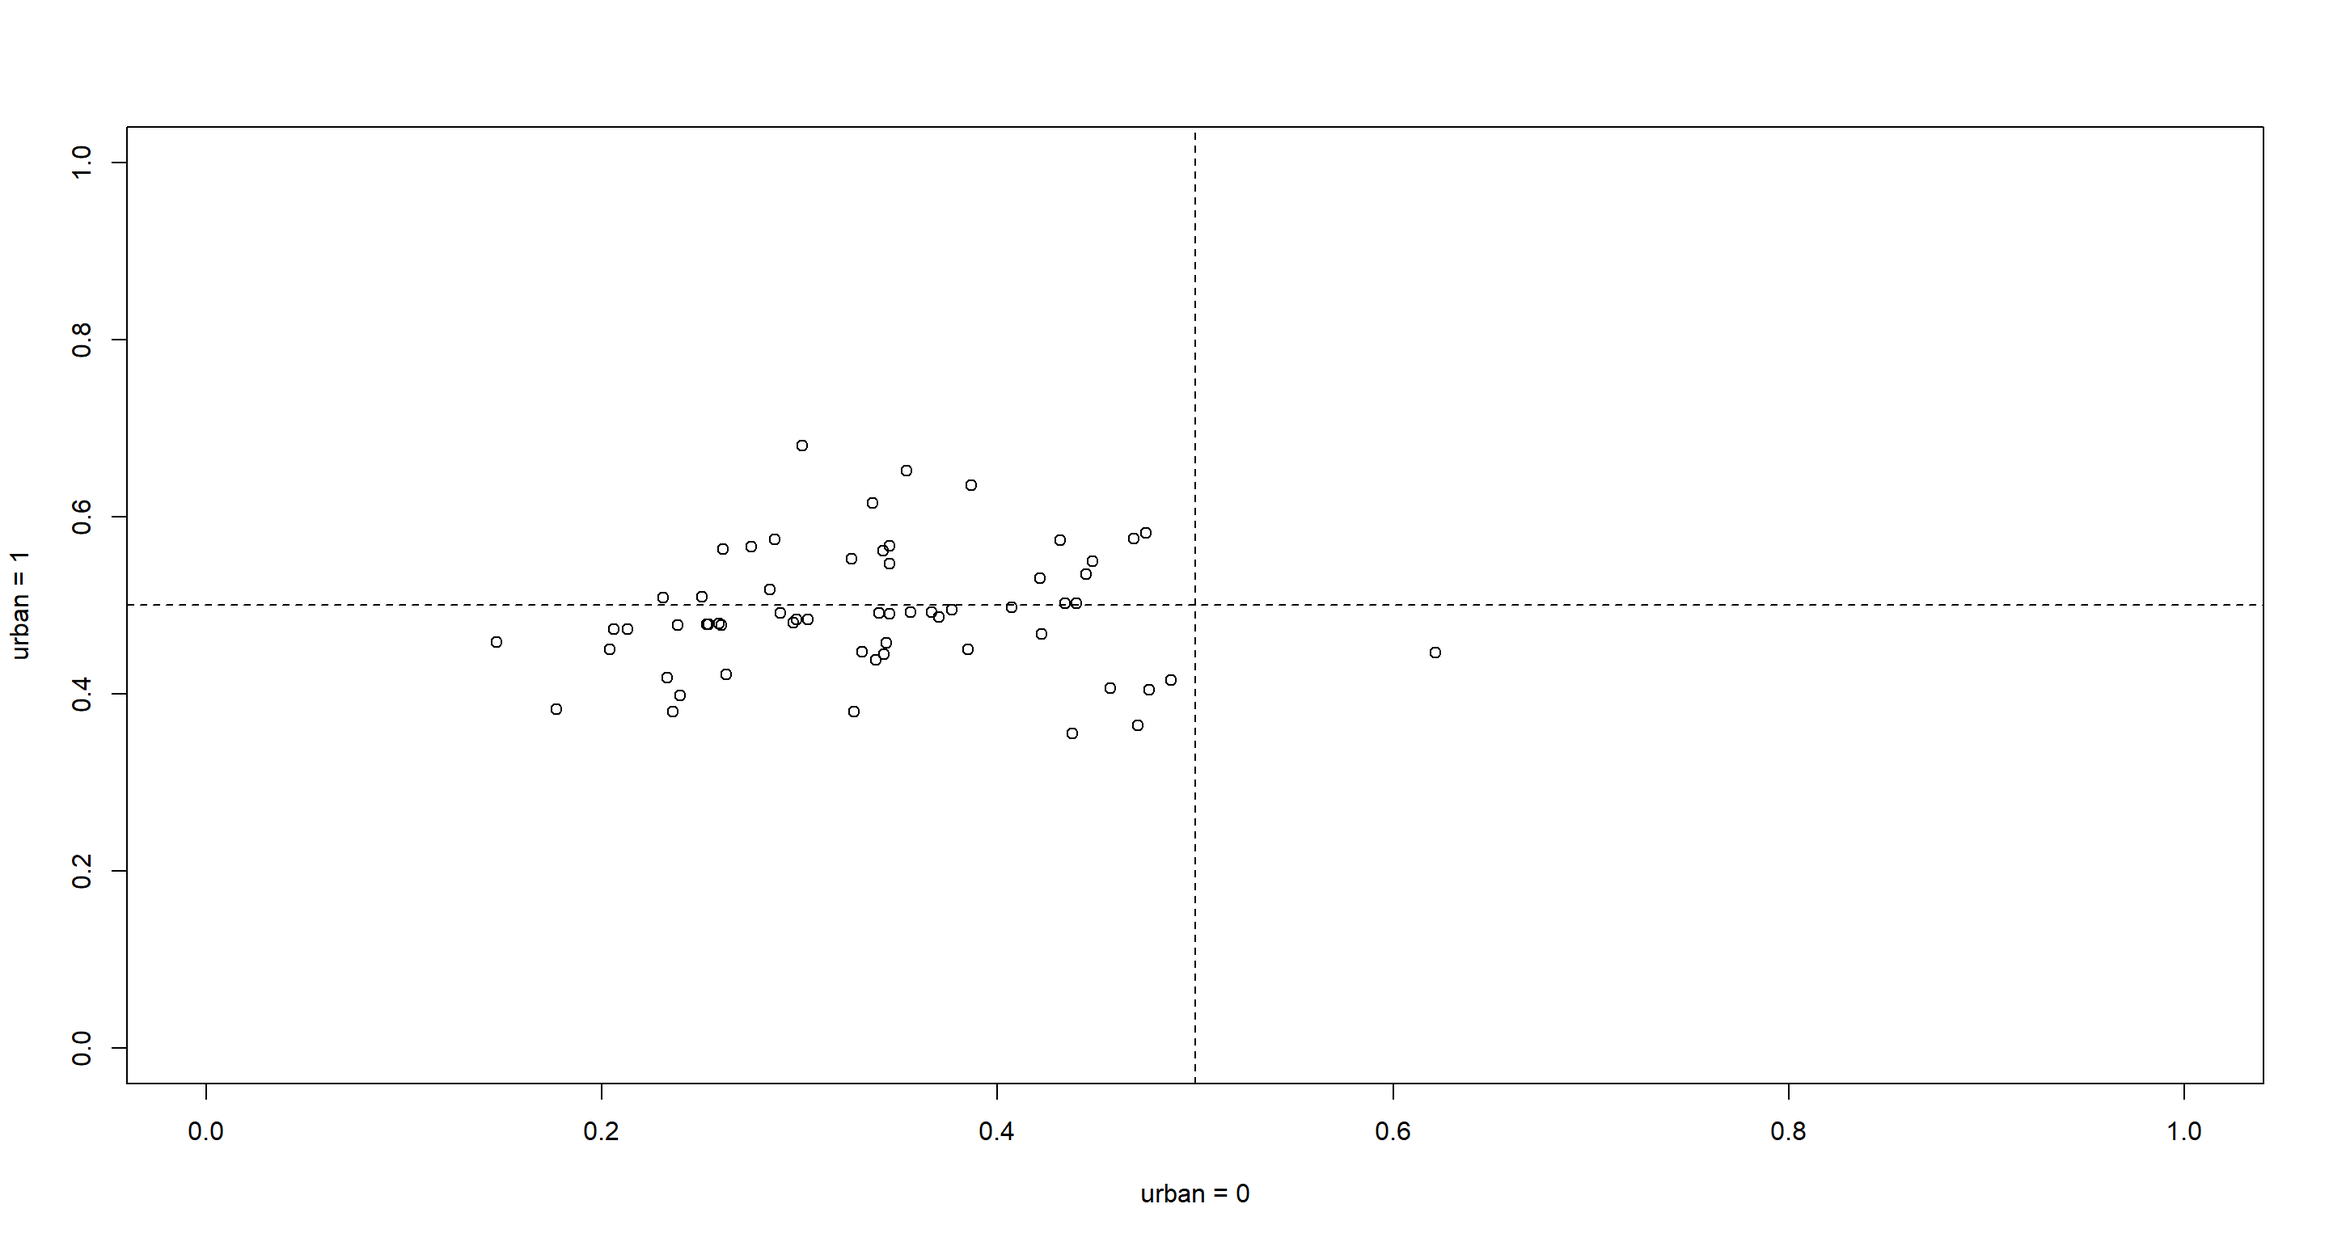
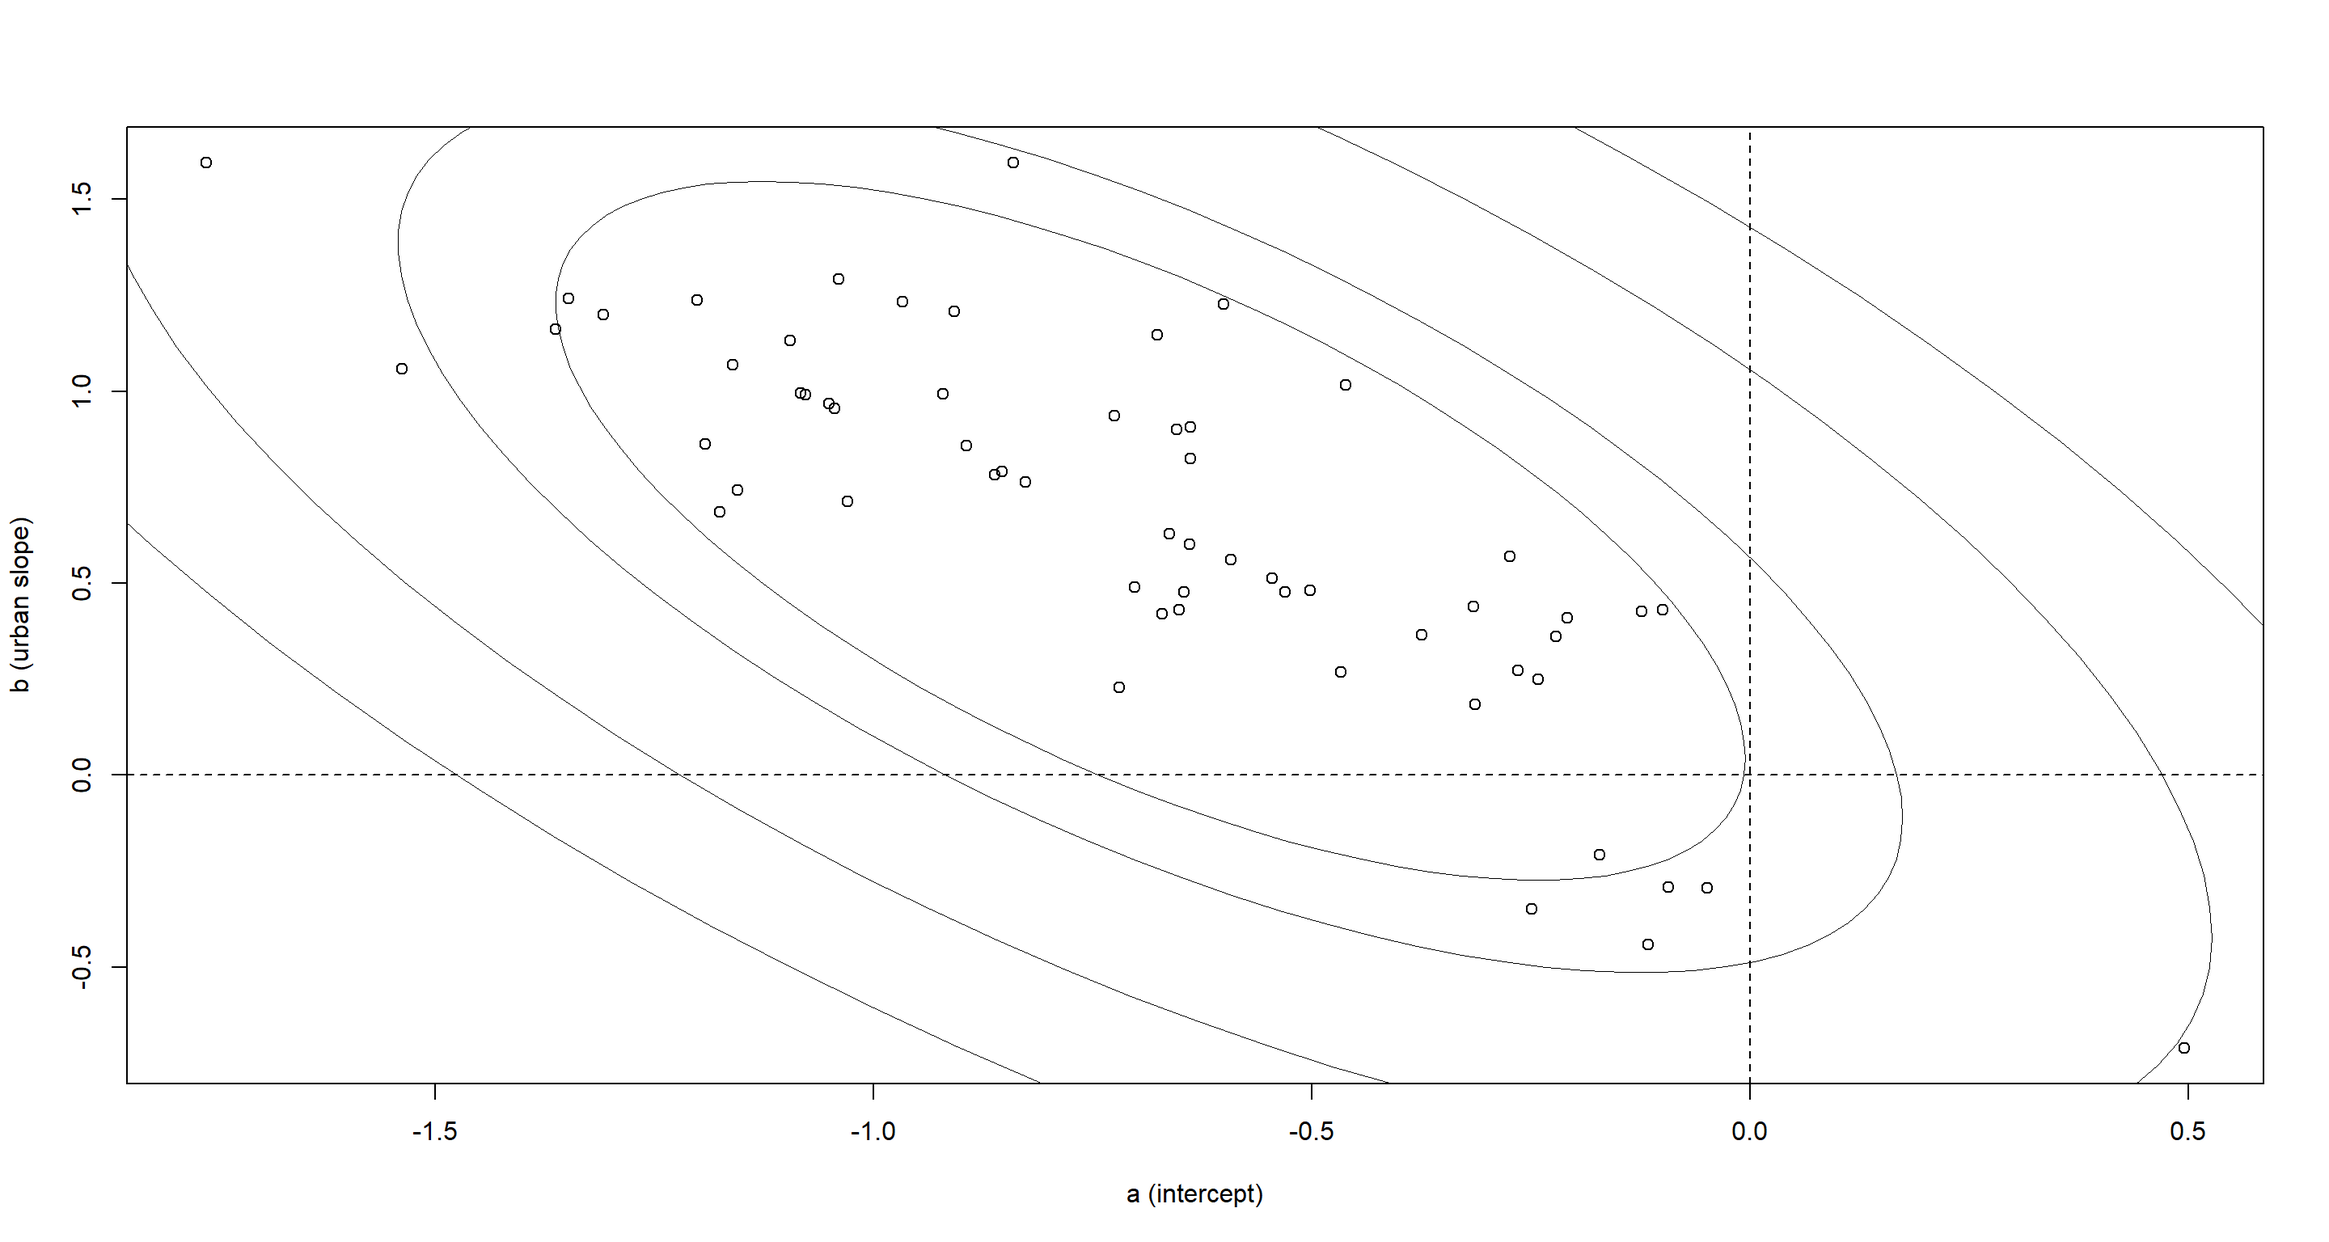
Fix for rethinking chapter 14

diff --git a/content/post/rethinking/2021-04-15-statistical-rethinking-chapter-14/index.en.html b/content/post/rethinking/2021-04-15-statistical-rethinking-chapter-14/index.en.html
@@ -55,6 +55,7 @@ the solutions provided to instructors by Richard McElreath himself.</p>
 <pre class="r"><code>library(rethinking)
 library(rstan)
 library(MASS)
+library(ellipse)
 library(ape)
 library(ggplot2)
 library(tidybayes)</code></pre>
@@ -374,10 +375,10 @@ precis(m_M3NonCent, 3)</code></pre>
 <p>So what about running time?</p>
 <pre class="r"><code># Centred
 End_C - Begin_C</code></pre>
-<pre><code>## Time difference of 30.1616 secs</code></pre>
+<pre><code>## Time difference of 31.60123 secs</code></pre>
 <pre class="r"><code># Non-Centred
 End_NC - Begin_NC</code></pre>
-<pre><code>## Time difference of 25.81604 secs</code></pre>
+<pre><code>## Time difference of 27.44722 secs</code></pre>
 <p>Ok. The non-centred model ran slightly faster.</p>
 </div>
 <div id="practice-m4" class="section level2">
@@ -546,15 +547,16 @@ m_M5GP &lt;- ulam(
 <h2>Practice H1</h2>
 <p><strong>Question:</strong> Let’s revisit the Bangladesh fertility data, <code>data(bangladesh)</code>, from the practice problems for Chapter 13. Fit a model with both varying intercepts by <code>district_id</code> and varying slopes of urban by <code>district_id</code>. You are still predicting <code>use.contraception</code>.</p>
 <p>Inspect the correlation between the intercepts and slopes. Can you interpret this correlation, in terms of what it tells you about the pattern of contraceptive use in the sample? It might help to plot the mean (or median) varying effect estimates for both the intercepts and slopes, by district. Then you can visualize the correlation and maybe more easily think through what it means to have a particular correlation. Plotting predicted proportion of women using contraception, with urban women on one axis and rural on the other, might also help.</p>
-<p><strong>Answer:</strong></p>
+<p><strong>Answer:</strong> Once more, I start by loading the data and preparing it as was done in a previous chapter:</p>
 <pre class="r"><code>data(bangladesh)
 d &lt;- bangladesh
 dat_list &lt;- list(
   C = d$use.contraception,
   did = as.integer(as.factor(d$district)),
   urban = d$urban
-)
-m14H1.1 &lt;- ulam(
+)</code></pre>
+<p>Now I can run my model:</p>
+<pre class="r"><code>m_H1 &lt;- ulam(
   alist(
     C ~ bernoulli(p),
     logit(p) &lt;- a[did] + b[did] * urban,
@@ -566,11 +568,14 @@ m14H1.1 &lt;- ulam(
   ),
   data = dat_list, chains = 4, cores = 4, iter = 4000
 )</code></pre>
-<pre class="r"><code>precis(m14H1.1)</code></pre>
+<p>And now look at the posterior estimates of average effects:</p>
+<pre class="r"><code>precis(m_H1)</code></pre>
 <pre><code>##            mean        sd       5.5%      94.5%    n_eff    Rhat4
 ## abar -0.6842219 0.1003302 -0.8475050 -0.5301731 6158.562 1.000395
 ## bbar  0.6369826 0.1590421  0.3866908  0.8900233 4474.285 1.000145</code></pre>
-<pre class="r"><code>precis(m14H1.1, depth = 3, pars = c(&quot;Rho&quot;, &quot;Sigma&quot;))</code></pre>
+<p>Unsurprisingly, I find a positive effect for <code>bbar</code> which indicates that contraception is used more frequently in urban areas.</p>
+<p>Looking deeper into the posterior estimates:</p>
+<pre class="r"><code>precis(m_H1, depth = 3, pars = c(&quot;Rho&quot;, &quot;Sigma&quot;))</code></pre>
 <pre><code>##                mean           sd       5.5%      94.5%     n_eff     Rhat4
 ## Rho[1,1]  1.0000000 0.000000e+00  1.0000000  1.0000000       NaN       NaN
 ## Rho[1,2] -0.6512997 1.696069e-01 -0.8680436 -0.3443487 1431.4457 1.0003693
@@ -578,13 +583,14 @@ m14H1.1 &lt;- ulam(
 ## Rho[2,2]  1.0000000 5.972661e-17  1.0000000  1.0000000 7485.2487 0.9994999
 ## Sigma[1]  0.5762512 9.710360e-02  0.4308600  0.7404430 1990.0617 1.0021542
 ## Sigma[2]  0.7731623 1.991282e-01  0.4617857  1.0991674  967.7497 1.0034399</code></pre>
-<pre class="r"><code>post &lt;- extract.samples(m14H1.1)
+<p>shows a negative correlation between the intercepts and slopes (<code>Rho[1,2]</code> or <code>Rho[2,1]</code>).</p>
+<p>Let’s plot this relationship between the varying effects to get a better understanding of what is happening:</p>
+<pre class="r"><code>post &lt;- extract.samples(m_H1)
 a &lt;- apply(post$a, 2, mean)
 b &lt;- apply(post$b, 2, mean)
 plot(a, b, xlab = &quot;a (intercept)&quot;, ylab = &quot;b (urban slope)&quot;)
 abline(h = 0, lty = 2)
 abline(v = 0, lty = 2)
-library(ellipse)
 R &lt;- apply(post$Rho, 2:3, mean)
 s &lt;- apply(post$Sigma, 2, mean)
 S &lt;- diag(s) %*% R %*% diag(s)
@@ -593,45 +599,27 @@ for (l in ll) {
   el &lt;- ellipse(S, centre = c(mean(post$abar), mean(post$bbar)), level = l)
   lines(el, col = &quot;black&quot;, lwd = 0.5)
 }</code></pre>
-<p><img src="{{< blogdown/postref >}}index.en_files/figure-html/unnamed-chunk-26-1.png" width="1440" /></p>
+<p><img src="{{< blogdown/postref >}}index.en_files/figure-html/unnamed-chunk-27-1.png" width="1440" /></p>
+<p>So districts with higher use of contraception outside of urban areas come with smaller slopes. Basically, what this means is that districts which boast a high use of contraception outside of urban areas do not have a marked shift in use of contraceptives when moving to urban areas.</p>
+<p>We can also show this in probability scale by applying inverse logit transformation to our estimates:</p>
 <pre class="r"><code>u0 &lt;- inv_logit(a)
 u1 &lt;- inv_logit(a + b)
 plot(u0, u1, xlim = c(0, 1), ylim = c(0, 1), xlab = &quot;urban = 0&quot;, ylab = &quot;urban = 1&quot;)
 abline(h = 0.5, lty = 2)
 abline(v = 0.5, lty = 2)</code></pre>
-<p><img src="{{< blogdown/postref >}}index.en_files/figure-html/unnamed-chunk-27-1.png" width="1440" /></p>
-<pre class="r"><code># version with matrix instead of slopes
-dat_list$uid &lt;- dat_list$urban + 1L
-m14H1.2 &lt;- ulam(
-  alist(
-    C ~ bernoulli(p),
-    logit(p) &lt;- a[did, uid],
-    vector[2]:a[did] ~ multi_normal(c(abar, bbar), Rho, Sigma),
-    abar ~ normal(0, 1),
-    bbar ~ normal(0, 1),
-    Rho ~ lkj_corr(2),
-    Sigma ~ exponential(1)
-  ),
-  data = dat_list, chains = 4, cores = 4, iter = 4000
-)
-precis(m14H1.2, depth = 3, pars = &quot;Rho&quot;)</code></pre>
-<pre><code>##               mean          sd       5.5%     94.5%    n_eff     Rhat4
-## Rho[1,1]  1.000000 0.00000e+00  1.0000000 1.0000000      NaN       NaN
-## Rho[1,2] -0.099816 2.83942e-01 -0.5358482 0.3780365 1778.076 1.0013818
-## Rho[2,1] -0.099816 2.83942e-01 -0.5358482 0.3780365 1778.076 1.0013818
-## Rho[2,2]  1.000000 9.14476e-17  1.0000000 1.0000000 7621.047 0.9994999</code></pre>
+<p><img src="{{< blogdown/postref >}}index.en_files/figure-html/unnamed-chunk-28-1.png" width="1440" /></p>
 </div>
 <div id="practice-h2" class="section level2">
 <h2>Practice H2</h2>
 <p><strong>Question:</strong> Varying effects models are useful for modelling time series, as well as spatial clustering. In a time series, the observations cluster by entities that have continuity through time, such as individuals. Since observations within individuals are likely highly correlated, the multilevel structure can help quite a lot. You’ll use the data in <code>data(Oxboys)</code>, which is 234 height measurements on 26 boys from an Oxford Boys Club (I think these were like youth athletic leagues?), at 9 different ages (centred and standardized) per boy.</p>
 <p>You’ll be interested in predicting <code>height</code>, using <code>age</code>, clustered by <code>Subject</code> (individual boy). Fit a model with varying intercepts and slopes (on <code>age</code>), clustered by <code>Subject</code>. Present and interpret the parameter estimates. Which varying effect contributes more variation to the heights, the intercept or the slope?</p>
-<p><strong>Answer:</strong></p>
+<p><strong>Answer:</strong> I start with loading the data, standardising the age data, and making the subject IDs into an index:</p>
 <pre class="r"><code>data(Oxboys)
 d &lt;- Oxboys
 d$A &lt;- standardize(d$age)
-d$id &lt;- coerce_index(d$Subject)
-
-m14H4.1 &lt;- ulam(
+d$id &lt;- coerce_index(d$Subject)</code></pre>
+<p>Armed with my data, I can now turn to modelling:</p>
+<pre class="r"><code>m_H2 &lt;- ulam(
   alist(
     height ~ dnorm(mu, sigma),
     mu &lt;- a_bar + a[id] + (b_bar + b[id]) * A,
@@ -643,37 +631,42 @@ m14H4.1 &lt;- ulam(
     sigma ~ dexp(1)
   ),
   data = d, chains = 4, cores = 4, iter = 4000
-)
-
-## R code 14.32
-precis(m14H4.1, depth = 2, pars = c(&quot;a_bar&quot;, &quot;b_bar&quot;, &quot;sigma_id&quot;))</code></pre>
-<pre><code>##                   mean        sd       5.5%      94.5%     n_eff    Rhat4
-## a_bar       149.553864 1.3599070 147.392988 151.730080  261.2183 1.017370
-## b_bar         4.233350 0.2065606   3.908525   4.576870  442.0682 1.009450
-## sigma_id[1]   7.330378 0.8850019   6.075158   8.865113 5532.0068 1.000994
-## sigma_id[2]   1.062759 0.1487670   0.851210   1.320576 5813.4313 1.001454</code></pre>
-<pre class="r"><code>## R code 14.33
-plot(height ~ age, type = &quot;n&quot;, data = d)
+)</code></pre>
+<p>The model has compiled and I am interested in the output it produced concerning average effects and variation:</p>
+<pre class="r"><code>precis(m_H2, depth = 2, pars = c(&quot;a_bar&quot;, &quot;b_bar&quot;, &quot;sigma_id&quot;))</code></pre>
+<pre><code>##                   mean        sd        5.5%      94.5%     n_eff    Rhat4
+## a_bar       149.523993 1.3844230 147.2887666 151.690432  293.0144 1.011856
+## b_bar         4.230315 0.2073667   3.8999943   4.554123  414.4092 1.003962
+## sigma_id[1]   7.331832 0.8789976   6.0675622   8.840290 4173.7730 1.001038
+## sigma_id[2]   1.065676 0.1525730   0.8508899   1.336301 4141.6398 1.000750</code></pre>
+<p>Since age is standardised, <code>a_bar</code> represent the average height at average age in the data set. The average slope <code>b_bar</code> represents change in height for a one-unit change in standardised age.</p>
+<p>I don’t like interpreting standardised data coefficients like that. Let’s rather plot it:</p>
+<pre class="r"><code>plot(height ~ age, type = &quot;n&quot;, data = d)
 for (i in 1:26) {
   h &lt;- d$height[d$Subject == i]
   a &lt;- d$age[d$Subject == i]
   lines(a, h, col = col.alpha(&quot;slateblue&quot;, 0.5), lwd = 2)
 }</code></pre>
-<p><img src="{{< blogdown/postref >}}index.en_files/figure-html/unnamed-chunk-29-1.png" width="1440" /></p>
+<p><img src="{{< blogdown/postref >}}index.en_files/figure-html/unnamed-chunk-32-1.png" width="1440" /></p>
+<p>Now the the task at hand. Which effect contributes more to the overall heights of our individuals? Given the plot above, I’d argue that it is the varying intercepts which provide us with most of the variation in heights. However, this is very much down to the data and should not be generalised beyond this data set. It might completely fall apart if we had longer time-series of data values.</p>
 </div>
 <div id="practice-h3" class="section level2">
 <h2>Practice H3</h2>
 <p><strong>Question:</strong> Now consider the correlation between the varying intercepts and slopes. Can you explain its value? How would this estimated correlation influence your predictions about a new sample of boys?</p>
-<p><strong>Answer:</strong></p>
-<pre class="r"><code>precis(m14H4.1, depth = 3, pars = &quot;Rho_id&quot;)</code></pre>
+<p><strong>Answer:</strong> For this, we look at the correlation matrix <code>Rho_id</code>:</p>
+<pre class="r"><code>precis(m_H2, depth = 3, pars = &quot;Rho_id&quot;)</code></pre>
 <pre><code>##                  mean           sd      5.5%     94.5%    n_eff     Rhat4
 ## Rho_id[1,1] 1.0000000 0.000000e+00 1.0000000 1.0000000      NaN       NaN
-## Rho_id[1,2] 0.5306803 1.301624e-01 0.3046068 0.7146637 5306.552 1.0005286
-## Rho_id[2,1] 0.5306803 1.301624e-01 0.3046068 0.7146637 5306.552 1.0005286
-## Rho_id[2,2] 1.0000000 7.816530e-17 1.0000000 1.0000000 8032.358 0.9994999</code></pre>
-<pre class="r"><code>rho &lt;- extract.samples(m14H4.1)$Rho_id[, 1, 2]
-dens(rho, xlab = &quot;rho&quot;, xlim = c(-1, 1))</code></pre>
-<p><img src="{{< blogdown/postref >}}index.en_files/figure-html/unnamed-chunk-31-1.png" width="1440" /></p>
+## Rho_id[1,2] 0.5307351 1.283373e-01 0.3046972 0.7170573 4627.842 1.0007918
+## Rho_id[2,1] 0.5307351 1.283373e-01 0.3046972 0.7170573 4627.842 1.0007918
+## Rho_id[2,2] 1.0000000 7.886203e-17 1.0000000 1.0000000 7829.277 0.9994999</code></pre>
+<p>So there is a positive correlation. Let’s visualise that:</p>
+<pre class="r"><code>ggplot() +
+  stat_halfeye(aes(x = extract.samples(m_H2)$Rho_id[, 1, 2])) +
+  theme_bw() +
+  labs(x = &quot;Rho&quot;)</code></pre>
+<p><img src="{{< blogdown/postref >}}index.en_files/figure-html/unnamed-chunk-34-1.png" width="1440" /></p>
+<p>The positive correlation implies that larger intercepts are associated with steeper slopes. What this means is that taller boys grow faster.</p>
 </div>
 <div id="practice-h4" class="section level2">
 <h2>Practice H4</h2>
@@ -682,33 +675,35 @@ dens(rho, xlab = &quot;rho&quot;, xlim = c(-1, 1))</code></pre>
 <p>Note that you can construct an arbitrary variance-covariance matrix to pass to either <code>mvrnorm</code> or <code>rmvnorm</code> with something like:</p>
 <pre class="r"><code>S &lt;- matrix(c(sa^2, sa * sb * rho, sa * sb * rho, sb^2), nrow = 2)</code></pre>
 <p>where <code>sa</code> is the standard deviation of the first variable, <code>sb</code> is the standard deviation of the second variable, and <code>rho</code> is the correlation between them.</p>
-<p><strong>Answer:</strong></p>
-<pre class="r"><code>post &lt;- extract.samples(m14H4.1)
+<p><strong>Answer:</strong> To simulate new observations we need to obtain the estimates of our model so far:</p>
+<pre class="r"><code>post &lt;- extract.samples(m_H2)
 rho &lt;- mean(post$Rho_id[, 1, 2])
 sb &lt;- mean(post$sigma_id[, 2])
 sa &lt;- mean(post$sigma_id[, 1])
 sigma &lt;- mean(post$sigma)
 a &lt;- mean(post$a_bar)
 b &lt;- mean(post$b_bar)</code></pre>
+<p>Now we can define the variance-covariance matrix:</p>
 <pre class="r"><code>S &lt;- matrix(c(sa^2, sa * sb * rho, sa * sb * rho, sb^2), nrow = 2)
 round(S, 2)</code></pre>
 <pre><code>##       [,1] [,2]
-## [1,] 53.73 4.13
-## [2,]  4.13 1.13</code></pre>
-<pre class="r"><code>library(MASS)
-ve &lt;- mvrnorm(10, c(0, 0), Sigma = S)
+## [1,] 53.76 4.15
+## [2,]  4.15 1.14</code></pre>
+<p>Subsequently, we can sample from the multivariate normal distribution given our variance-covariance matrix to obtain a bivariate distribution of intercepts and slopes:</p>
+<pre class="r"><code>ve &lt;- mvrnorm(10, c(0, 0), Sigma = S)
 ve</code></pre>
 <pre><code>##             [,1]       [,2]
-##  [1,]  8.8118718  0.3425282
-##  [2,] -1.5223373  1.5489810
-##  [3,] -9.5160175 -0.6946599
-##  [4,]  7.6528054 -0.3613894
-##  [5,]  5.4696745 -0.3052917
-##  [6,] -0.3546606  0.1441858
-##  [7,]  7.2702030  2.9999903
-##  [8,]  2.8137520  0.1648644
-##  [9,] -6.3572098 -1.0134032
-## [10,] -7.1036042 -0.5961259</code></pre>
+##  [1,] -0.2914409 -0.8985609
+##  [2,]  8.8137562  0.3436168
+##  [3,] -1.5233131  1.5530926
+##  [4,] -9.5179212 -0.6967038
+##  [5,]  7.6547083 -0.3622056
+##  [6,]  5.4710535 -0.3060008
+##  [7,] -0.3548003  0.1445644
+##  [8,]  7.2706590  3.0081540
+##  [9,]  2.8143313  0.1653603
+## [10,] -6.3582595 -1.0162374</code></pre>
+<p>These are individual intercepts and slopes of 10 random boys have which we only need to add to the average intercept and slope values to generate predicted heights for them. Here, we simulate the trend for each boy and add it to a plot:</p>
 <pre class="r"><code>age.seq &lt;- seq(from = -1, to = 1, length.out = 9)
 plot(0, 0, type = &quot;n&quot;, xlim = range(d$age), ylim = range(d$height), xlab = &quot;age (centered)&quot;, ylab = &quot;height&quot;)
 for (i in 1:nrow(ve)) {
@@ -718,7 +713,7 @@ for (i in 1:nrow(ve)) {
   )
   lines(age.seq, h, col = col.alpha(&quot;slateblue&quot;, 0.5))
 }</code></pre>
-<p><img src="{{< blogdown/postref >}}index.en_files/figure-html/unnamed-chunk-36-1.png" width="1440" /></p>
+<p><img src="{{< blogdown/postref >}}index.en_files/figure-html/unnamed-chunk-39-1.png" width="1440" /></p>
 </div>
 </div>
 <div id="session-info" class="section level1">
@@ -738,7 +733,7 @@ for (i in 1:nrow(ve)) {
 ## [1] parallel  stats     graphics  grDevices utils     datasets  methods   base     
 ## 
 ## other attached packages:
-## [1] ellipse_0.4.2        tidybayes_2.3.1      ape_5.4-1            MASS_7.3-51.6        rethinking_2.13      rstan_2.21.2         ggplot2_3.3.3        StanHeaders_2.21.0-7
+## [1] tidybayes_2.3.1      ape_5.4-1            ellipse_0.4.2        MASS_7.3-51.6        rethinking_2.13      rstan_2.21.2         ggplot2_3.3.3        StanHeaders_2.21.0-7
 ## 
 ## loaded via a namespace (and not attached):
 ##  [1] sass_0.3.1           tidyr_1.1.3          jsonlite_1.7.2       R.utils_2.10.1       bslib_0.2.4          RcppParallel_5.0.3   assertthat_0.2.1     distributional_0.2.2 highr_0.8           
